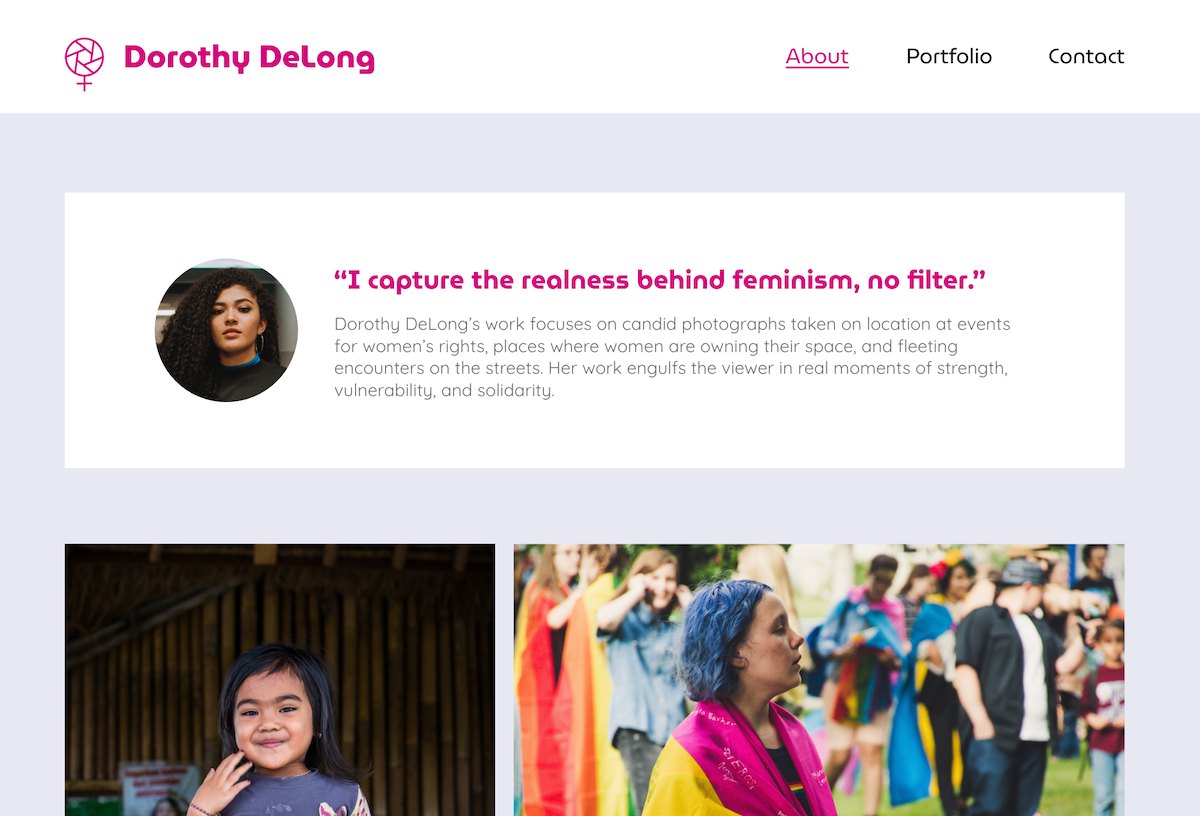
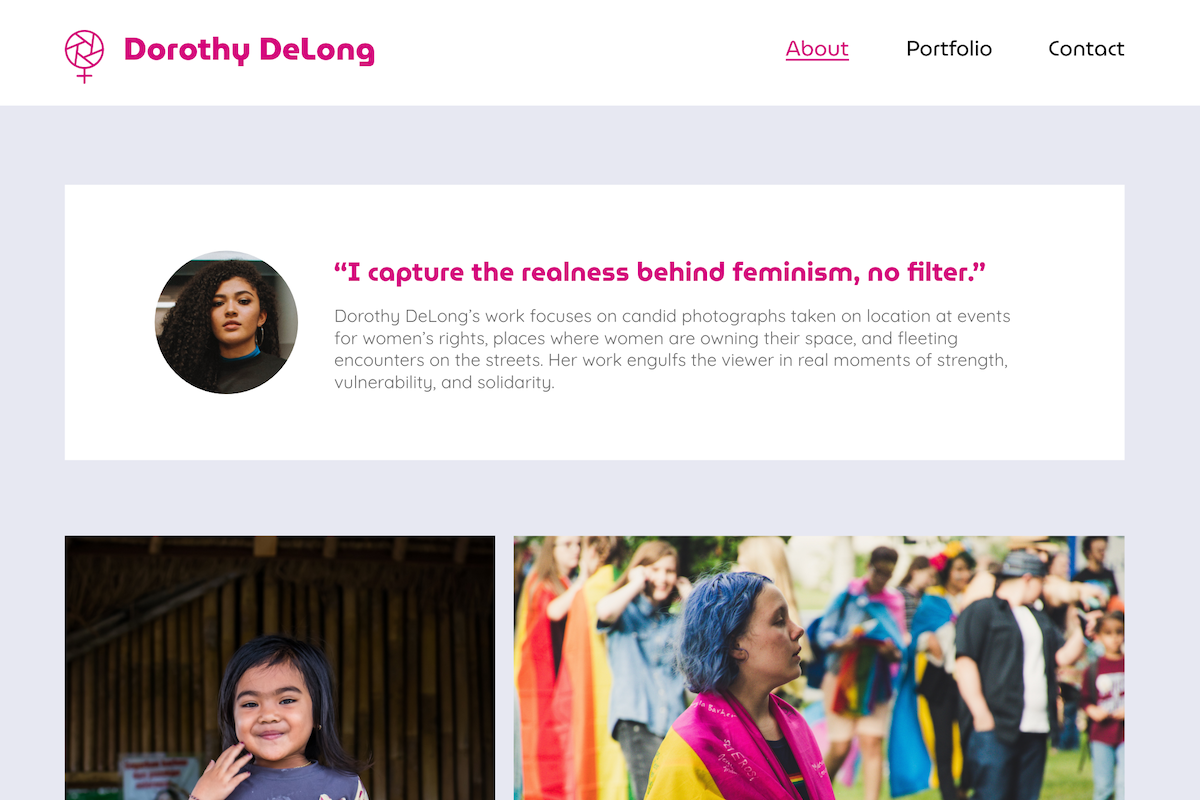
Added tablet styles for header, hero area and work section

diff --git a/css/main.css b/css/main.css
@@ -115,7 +115,7 @@ footer {
 
 header .content-wrapper {
   display: flex;
-  justify-content: center;
+  justify-content: space-between;
   align-items: center;
   flex-flow: row wrap;
   margin: 0;
@@ -143,7 +143,8 @@ header nav ul {
 
 header nav ul li {
   width: 31.25%;
-  padding: 10px 0;
+  text-align: center;
+  vertical-align: middle;
 }
 
 footer {
@@ -339,9 +340,94 @@ footer .copyright {
    Modify as content requires.
    ========================================================================== */
 
-@media only screen and (min-width: 35em) {
-  /* Style adjustments for viewports that meet the condition */
+@media only screen and (min-width: 768px) {
+/*Tablet styles here*/
+
+/* General styles */
+
+.content-wrapper {
+  max-width: 640px;
 }
+
+/* Header and footer */
+
+header #name {
+  width: 50%;
+}
+
+header nav {
+  width: 50%;
+}
+
+header nav ul li {
+  width: 33.33%;
+}
+
+#about-link {
+  border-left: 1px solid white;
+  border-right: 1px solid white;
+}
+
+/* Hero-area */
+
+.hero-area .content-wrapper {
+  min-height: 500px;
+}
+
+.hero-area h1 {
+  width: 50%;
+}
+
+/* Work */
+
+#work .work-items {
+  justify-content: space-between;
+}
+
+#work article {
+  display: flex;
+  justify-content: flex-start;
+  align-items: center;
+  flex-flow: column wrap;
+  flex-basis: 45%;
+}
+
+/* About 
+
+
+#about article {
+  display: flex;
+  justify-content: center;
+  flex-flow: row wrap;
+}
+
+#about h2 {
+  width: 100%;
+  margin: 30px 0 10px 0;
+}
+
+#about p {
+  margin-top: 10px;
+}
+*/
+
+#about article {
+  max-height: 500px;
+  justify-content: flex-start;
+  flex-flow: column wrap;
+}
+
+#about figure,
+#about h2,
+#about p {
+  width: 50%;
+}
+
+
+
+
+@media only screen and (min-width: 1200px) {
+  /*Desktop styles here*/
 
 @media print,
   (-webkit-min-device-pixel-ratio: 1.25),

diff --git a/index.html b/index.html
@@ -34,7 +34,7 @@
       <nav>
         <ul>
           <li><a href="#work">Work</a></li>
-          <li><a href="#about">About</a></li>
+          <li id="about-link"><a href="#about">About</a></li>
           <li><a href="#contact">Contact</a></li>
         </ul>
       </nav>
@@ -102,7 +102,7 @@
           <p>Suzanne brings flow into her web designs as well by building sites 
             that can be used without thinking and where all elements naturally 
             flow together for a beautiful result on every device.
-          </p> 
+          </p>
         </article>
       </div>
     </section>
